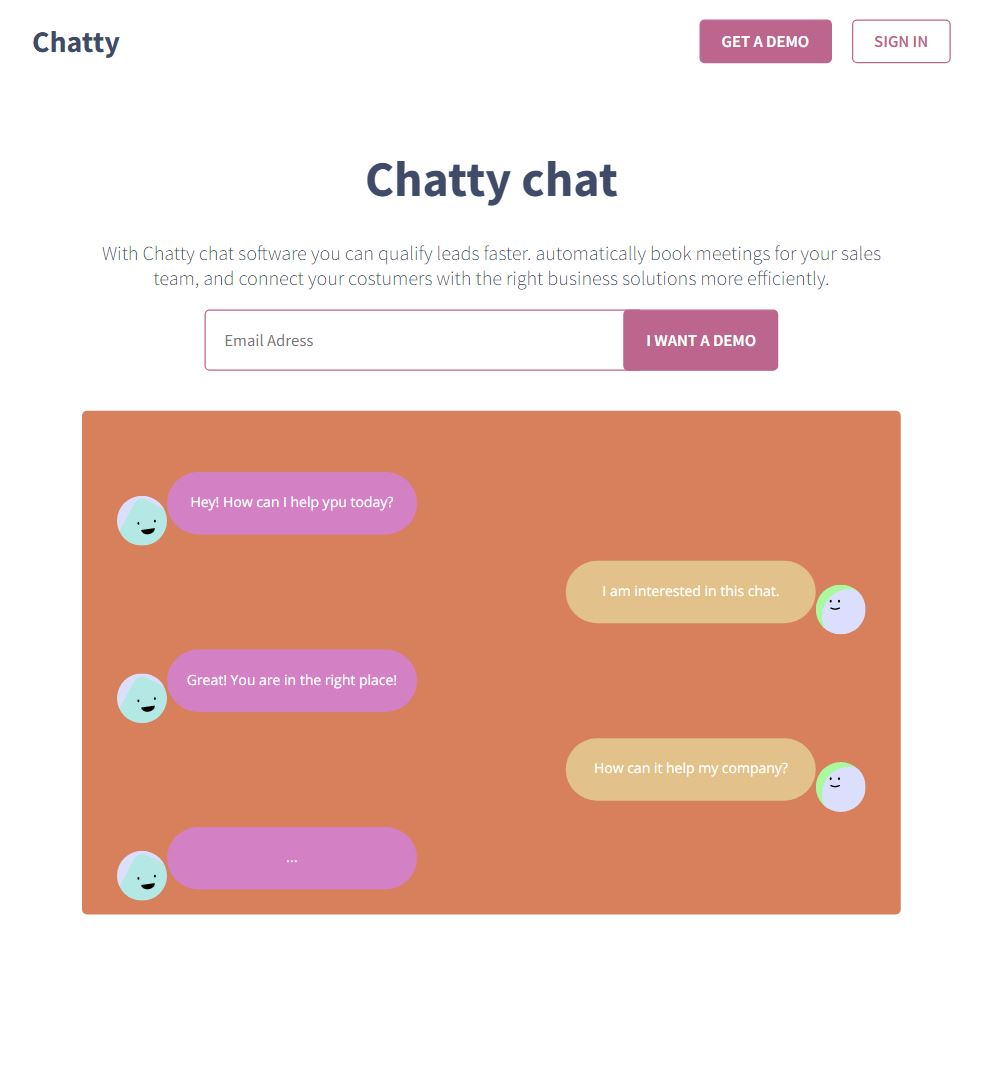
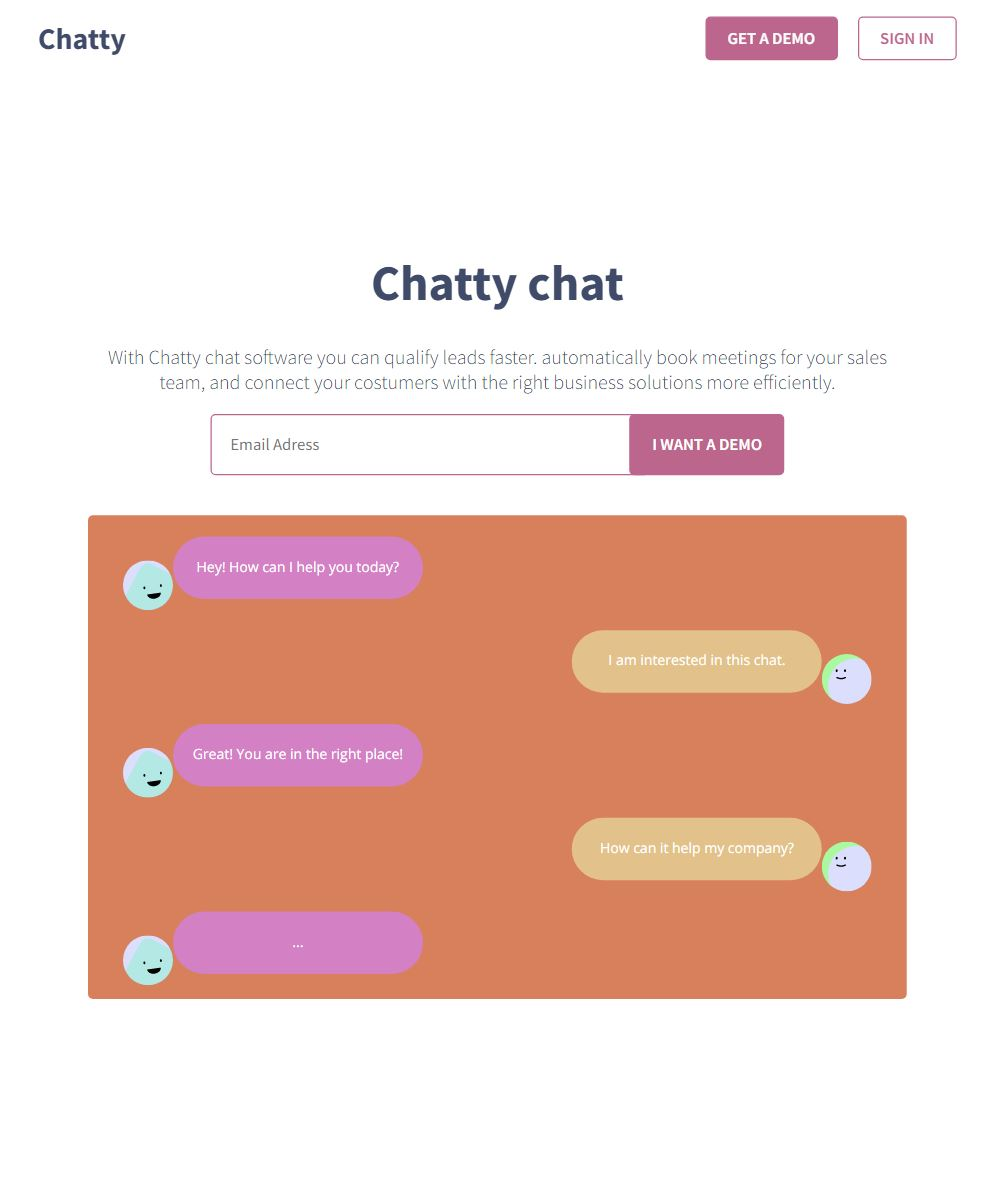
.done

diff --git a/landing-page/src/components/Chat/Chatting.vue b/landing-page/src/components/Chat/Chatting.vue
@@ -1,6 +1,6 @@
 <template>
-  <section>
-    <LeftChatter text="Hey! How can I help ypu today?" />
+  <section class="chatting-section">
+    <LeftChatter text="Hey! How can I help you today?" />
     <RightChatter text="I am interested in this chat." />
     <LeftChatter text="Great! You are in the right place!" />
     <RightChatter text="How can it help my company?" />
@@ -16,12 +16,24 @@ export default {
 };
 </script>
 <style scoped>
-section {
+.chatting-section {
   width: 80vw;
   display: flex;
   flex-direction: column;
   justify-content: center;
   align-items: center;
   margin-top: -0.25rem;
+}
+@media only screen and (min-width: 1000px) {
+  .chatting-section {
+    width: 40vw;
+  }
+}
+@media only screen and (min-width: 1200px) {
+  .chatting-section {
+    padding-top: 2rem;
+    padding-bottom: 2rem;
+    max-width: 550px;
+  }
 }
 </style>

diff --git a/landing-page/src/components/Chat/MainChatComponent.vue b/landing-page/src/components/Chat/MainChatComponent.vue
@@ -1,5 +1,5 @@
 <template>
-  <section>
+  <section class="main-chat-section">
     <div class="background"><Chatting /></div>
   </section>
 </template>
@@ -12,7 +12,7 @@ export default {
 };
 </script>
 <style scoped>
-section {
+.main-chat-section {
   width: 100vw;
   display: flex;
   flex-direction: column;
@@ -27,5 +27,22 @@ section {
   width: 80vw;
   height: auto;
   padding: 0.5rem;
+}
+@media only screen and (min-width: 1000px) {
+  .main-chat-section {
+    width: 50vw;
+  }
+  .background {
+    width: 40vw;
+  }
+}
+@media only screen and (min-width: 1200px) {
+  .main-chat-section {
+    max-width: 550px;
+    padding: 2rem;
+  }
+  .background {
+    max-width: 550px;
+  }
 }
 </style>

diff --git a/landing-page/src/App.vue b/landing-page/src/App.vue
@@ -1,7 +1,7 @@
 <template>
   <main>
     <NavigationComponent />
-    <section><MainText /><MainChatComponent /></section>
+    <section class="main-section"><MainText /><MainChatComponent /></section>
   </main>
 </template>
 
@@ -26,5 +26,18 @@ main {
   overflow-y: auto;
   overflow-x: hidden;
   font-family: var(--text-main);
+  display: flex;
+  justify-content: center;
+  align-items: center;
+}
+@media only screen and (min-width: 1000px) {
+  .main-section {
+    display: flex;
+    flex-direction: row;
+    justify-content: center;
+    align-items: center;
+    width: 100vw;
+    padding: 2rem;
+  }
 }
 </style>

diff --git a/landing-page/src/components/Chat/RightChatter.vue b/landing-page/src/components/Chat/RightChatter.vue
@@ -84,7 +84,7 @@ export default {
   flex-direction: row;
   justify-content: flex-end;
   align-items: center;
-  width: 55vw;
+  width: 75vw;
   color: var(--background-color);
   font-family: var(--text-chat);
   font-size: 0.7rem;
@@ -103,5 +103,26 @@ svg {
 }
 p {
   margin-top: 1rem;
+}
+@media only screen and (min-width: 1000px) {
+  .right {
+    width: 37vw;
+  }
+}
+@media only screen and (min-width: 1400px) {
+  svg {
+    height: 55px;
+  }
+  .bubble-right {
+    width: 300px;
+    height: 75px;
+  }
+  p {
+    font-size: 1.1rem;
+    margin-top: 1.7rem;
+  }
+  .right {
+    width: 500px;
+  }
 }
 </style>

diff --git a/landing-page/src/components/Chat/LeftChatter.vue b/landing-page/src/components/Chat/LeftChatter.vue
@@ -78,7 +78,7 @@ export default {
   flex-direction: row;
   justify-content: flex-start;
   align-items: center;
-  width: 95vw;
+  width: 75vw;
   color: var(--background-color);
   font-family: var(--text-chat);
   font-size: 0.7rem;
@@ -97,5 +97,26 @@ svg {
 }
 p {
   margin-top: 1rem;
+}
+@media only screen and (min-width: 1000px) {
+  .left {
+    width: 38vw;
+  }
+}
+@media only screen and (min-width: 1400px) {
+  svg {
+    height: 55px;
+  }
+  .bubble-left {
+    width: 300px;
+    height: 75px;
+  }
+  p {
+    font-size: 1.1rem;
+    margin-top: 1.7rem;
+  }
+  .left {
+    width: 500px;
+  }
 }
 </style>

diff --git a/landing-page/src/components/Text/MainText.vue b/landing-page/src/components/Text/MainText.vue
@@ -34,4 +34,33 @@ h1 {
   font-weight: 700;
   font-size: 2.5rem;
 }
+@media only screen and (min-width: 1000px) {
+  p {
+    width: 40vw;
+    text-align: left;
+  }
+  .text-section {
+    width: 40vw;
+    align-items: flex-start;
+    margin-top: -7rem;
+  }
+  h1 {
+    text-align: left;
+  }
+}
+@media only screen and (min-width: 1400px) {
+  p {
+    font-weight: 400;
+    font-size: 1.3rem;
+    width: 730px;
+  }
+  h1 {
+    font-weight: 900;
+    font-size: 4rem;
+    margin-top: -7rem;
+  }
+  .text-section {
+    padding: 2rem;
+  }
+}
 </style>

diff --git a/landing-page/src/components/Text/Input.vue b/landing-page/src/components/Text/Input.vue
@@ -21,7 +21,6 @@ input {
   color: var(--background-color);
   width: 40vw;
   outline: none;
-  max-width: 500px;
 }
 form {
   width: 80vw;
@@ -31,5 +30,23 @@ form {
 }
 .but {
   margin-left: -1rem;
+}
+@media only screen and (min-width: 1000px) {
+  form {
+    width: 40vw;
+    justify-content: flex-start;
+  }
+  input {
+    width: 30vw;
+  }
+}
+@media only screen and (min-width: 1200px) {
+  input {
+    padding: 20px;
+    max-width: 550px;
+  }
+  form {
+    max-width: 700px;
+  }
 }
 </style>

diff --git a/landing-page/src/styles.css b/landing-page/src/styles.css
@@ -2,7 +2,7 @@
   --text-chat: "Open Sans", sans-serif;
   --text-main: "Source Sans Pro", sans-serif;
 }
-/*
+
 @media screen and (prefers-color-scheme: dark) {
   body {
     --accent-color: #b3e8e5;
@@ -24,13 +24,4 @@
     --svg-two: #ffe0ac;
     --svg-three: #f8e1f4;
   }
-}*/
-body {
-  --accent-color: #fa9191;
-  --background-color: #fff;
-  --text-color: #404b69;
-  --button-color: #bc658d;
-  --svg-one: #d87f5c;
-  --svg-two: #e2c28a;
-  --svg-three: #d380c5;
 }

diff --git a/landing-page/src/components/Navigation/NavigationComponent.vue b/landing-page/src/components/Navigation/NavigationComponent.vue
@@ -21,6 +21,9 @@ export default {
   width: 100vw;
   height: 4rem;
   font-size: 1rem;
+  top: 0;
+  left: 0;
+  position: fixed;
 }
 .header-div {
   height: 2rem;

diff --git a/landing-page/README.md b/landing-page/README.md
@@ -1,15 +1,20 @@
 # Simple landing page
 
-This is a simple squeeze landing page, for capturing an email of a visitor. It is made with CSS and vue3.
+This is a simple squeeze landing page, for capturing an email of a visitor. It is made with CSS and vue3. The site displays differently depending on the users prefered theme. It is also fully responsive.
 
 ## Screenshots
 
 ### Mobile
 
 <Img src="src/assets/mobile.JPG" style="width:40%">
-<Img src="src/assets/mobile-light.JPG" style="width:37%">
+<Img src="src/assets/mobile-light.JPG" style="width:41.5%">
 
 ### Tablet
 
-<Img src="src/assets/tablet.JPG" style="width:45%">
+<Img src="src/assets/tablet.JPG" style="width:47%">
 <Img src="src/assets/tablet-light.JPG" style="width:45%">
+
+### Desktop
+
+<Img src="src/assets/desktop.JPG" style="width:94%">
+<Img src="src/assets/desktop-light.JPG" style="width:94%">

diff --git a/ReadMe.md b/ReadMe.md
@@ -4,6 +4,8 @@ This is a repository that holds all my smaller vue projects. The point of this r
 This repository is currently in progress!
 
 1. project: Simple page using Bulma and Vue3
-   ![](/simple-bulma-page/src/assets/desktop.JPG)
+   <Img src="simple-bulma-page/src/assets/desktop.JPG" style="width:94%">
+
 2. project: Simple landing page using CSS and Vue3
-   ![]()
+   <Img src="landing-page/src/assets/desktop.JPG" style="width:94%">
+   <Img src="landing-page/src/assets/desktop-light.JPG" style="width:94%">
